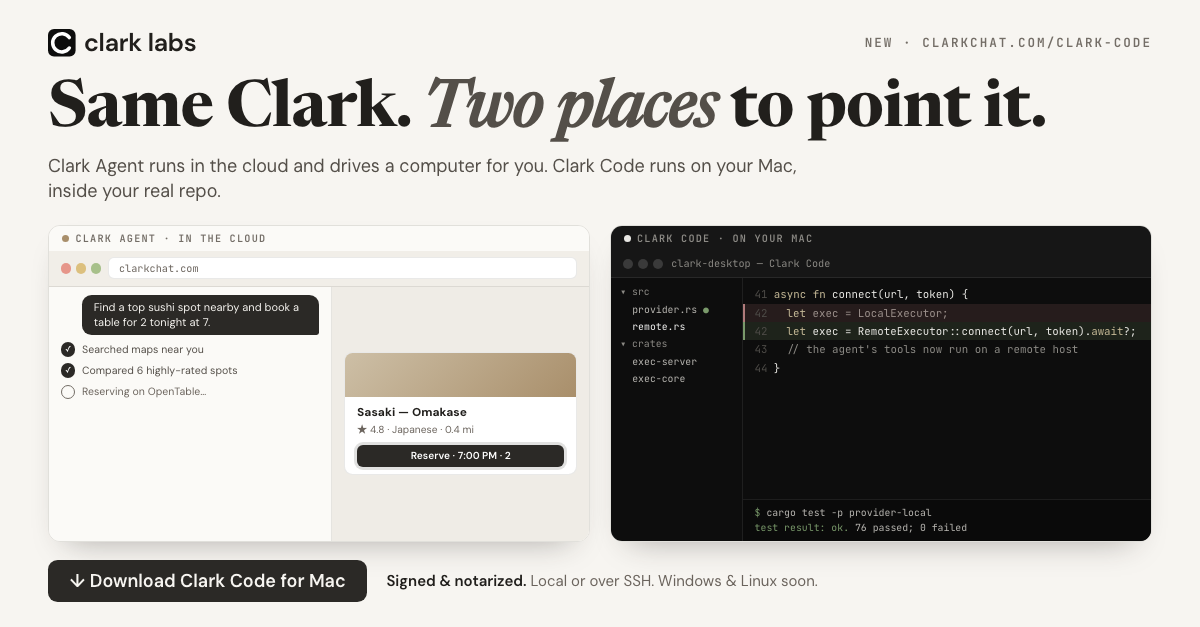
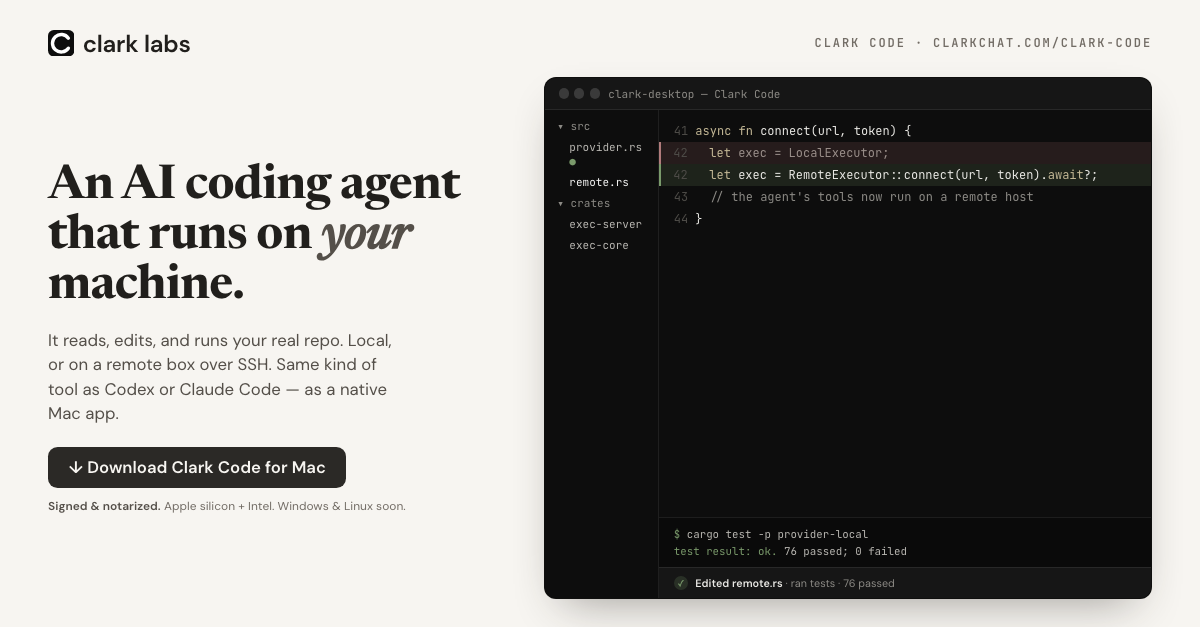
promos: Clark Code-led promo art to match the coding-agent positioning
Replace the Agent-vs-Code split card with a Clark Code-focused one: serif
headline "An AI coding agent that runs on your machine", a large dark IDE frame
(file tree, diff, passing tests), and the Mac download CTA — matching the
/clark-code hero. Re-rendered at 1600x900 (X) and 1200x627 (LinkedIn).

Claude-Session: https://claude.ai/code/session_01JfPrSee9uP3Q7wbd7r2sYU

diff --git a/promos/promo-card.html b/promos/promo-card.html
@@ -13,54 +13,41 @@
   *{box-sizing:border-box;margin:0;padding:0}
   html,body{width:100vw;height:100vh;overflow:hidden}
   body{background:var(--bg);color:var(--ink);font-family:var(--sans);
-       display:flex;flex-direction:column;padding:4.2vh 4vw 4vh;-webkit-font-smoothing:antialiased}
+       display:flex;flex-direction:column;padding:4.4vh 4vw;-webkit-font-smoothing:antialiased}
   .top{display:flex;align-items:center;justify-content:space-between}
-  .brand{display:flex;align-items:center;gap:.7vw;font-weight:600;font-size:2.1vw;letter-spacing:-.01em}
-  .brand svg{width:2.3vw;height:2.3vw}
-  .eyebrow{font-family:var(--mono);font-size:1.05vw;font-weight:600;letter-spacing:.16em;text-transform:uppercase;color:var(--faint)}
-  h1{font-family:var(--disp);font-weight:700;letter-spacing:-.015em;line-height:1.02;font-size:5.4vw;margin-top:3vh;max-width:24ch}
+  .brand{display:flex;align-items:center;gap:.7vw;font-weight:600;font-size:2vw;letter-spacing:-.01em}
+  .brand svg{width:2.2vw;height:2.2vw}
+  .eyebrow{font-family:var(--mono);font-size:1vw;font-weight:600;letter-spacing:.16em;text-transform:uppercase;color:var(--faint)}
+  .row{flex:1;display:flex;gap:3vw;align-items:center;margin-top:3vh;min-height:0}
+  .left{flex:1;display:flex;flex-direction:column;justify-content:center}
+  h1{font-family:var(--disp);font-weight:700;letter-spacing:-.015em;line-height:1.04;font-size:4vw}
   h1 em{font-style:italic;color:var(--ink2)}
-  .sub{margin-top:1.6vh;font-size:1.5vw;color:var(--ink2);max-width:62ch;line-height:1.4}
-  .frames{flex:1;display:flex;gap:1.6vw;margin-top:3.2vh;min-height:0}
-  .frame{flex:1;border:1px solid var(--line);border-radius:1vw;overflow:hidden;display:flex;flex-direction:column;
-         box-shadow:0 2.5vh 5vh -3vh rgba(40,36,32,.4)}
-  .flabel{display:flex;align-items:center;gap:.5vw;padding:1vh 1.1vw;font-family:var(--mono);font-size:.85vw;font-weight:600;letter-spacing:.12em;text-transform:uppercase}
-  .dot{width:.6vw;height:.6vw;border-radius:50%}
-  /* light browser */
-  .browser{background:#fbfaf7;flex:1;display:flex;flex-direction:column}
-  .bbar{display:flex;align-items:center;gap:.6vw;padding:1vh 1vw;background:#f1eee8;border-bottom:1px solid var(--line)}
-  .lights{display:flex;gap:.4vw}.lights i{width:.85vw;height:.85vw;border-radius:50%;display:block}
-  .url{flex:1;background:#fff;border:1px solid var(--line);border-radius:.5vw;padding:.55vh .8vw;color:var(--muted);font-family:var(--mono);font-size:.85vw}
-  .bbody{flex:1;display:grid;grid-template-columns:1.1fr 1fr}
-  .chat{padding:1.4vh 1vw;border-right:1px solid var(--line);display:flex;flex-direction:column;gap:1.1vh}
-  .ub{align-self:flex-end;max-width:92%;background:var(--accent);color:var(--on-accent);border-radius:.8vw .8vw .2vw .8vw;padding:.8vh 1vw;font-size:.92vw;line-height:1.35}
-  .step{display:flex;align-items:center;gap:.55vw;font-size:.88vw;color:var(--ink2)}
-  .ck{width:1.2vw;height:1.2vw;border-radius:50%;background:var(--accent);color:#fff;display:grid;place-items:center;flex:none;font-size:.7vw}
-  .ck.run{background:transparent;border:1.5px solid var(--faint)}
-  .vp{padding:1.3vh 1vw;background:var(--bg2);display:flex;align-items:center}
-  .vpc{width:100%;background:#fff;border:1px solid var(--line);border-radius:.7vw;overflow:hidden}
-  .vph{height:7vh;background:linear-gradient(135deg,#cdbfa6,#a98f6b)}
-  .vpp{padding:1.2vh 1vw}.vpt{font-weight:700;font-size:1vw}.vps{color:var(--muted);font-size:.85vw;margin-top:.3vh}
-  .reserve{margin-top:1.2vh;background:var(--accent);color:#fff;text-align:center;border-radius:.5vw;padding:.7vh;font-weight:600;font-size:.85vw;box-shadow:0 0 0 .25vw rgba(43,41,38,.14)}
-  /* dark IDE */
-  .ide{background:#0d0d0d;color:#e9e8e4;flex:1;display:flex;flex-direction:column}
-  .ibar{display:flex;align-items:center;gap:.7vw;padding:1vh 1vw;background:#161616;border-bottom:1px solid rgba(255,255,255,.08)}
-  .ititle{font-family:var(--mono);font-size:.85vw;color:#8c8a85}
-  .ibody{flex:1;display:grid;grid-template-columns:11vw 1fr}
-  .tree{padding:1.2vh .8vw;border-right:1px solid rgba(255,255,255,.08);display:flex;flex-direction:column;gap:.7vh;font-family:var(--mono);font-size:.82vw;color:#b8b6b1}
+  .sub{margin-top:2.4vh;font-size:1.4vw;color:var(--ink2);line-height:1.45;max-width:30ch}
+  .cta{display:inline-flex;align-items:center;gap:.6vw;background:var(--accent);color:var(--on-accent);font-weight:600;font-size:1.4vw;padding:1.5vh 1.7vw;border-radius:.8vw;margin-top:3.4vh;align-self:flex-start}
+  .note{margin-top:1.6vh;font-size:1vw;color:var(--faint)}
+  .note b{color:var(--ink2);font-weight:600}
+
+  /* big dark IDE */
+  .right{flex:1.32;height:100%;display:flex}
+  .ide{flex:1;background:#0d0d0d;color:#e9e8e4;border-radius:1vw;overflow:hidden;display:flex;flex-direction:column;
+       border:1px solid var(--line);box-shadow:0 3vh 7vh -3vh rgba(40,36,32,.45)}
+  .ibar{display:flex;align-items:center;gap:.7vw;padding:1.3vh 1.1vw;background:#161616;border-bottom:1px solid rgba(255,255,255,.08)}
+  .lights{display:flex;gap:.45vw}.lights i{width:.85vw;height:.85vw;border-radius:50%;display:block}
+  .ititle{font-family:var(--mono);font-size:.92vw;color:#8c8a85}
+  .ibody{flex:1;display:grid;grid-template-columns:9.5vw 1fr;min-height:0}
+  .tree{padding:1.5vh 1vw;border-right:1px solid rgba(255,255,255,.08);display:flex;flex-direction:column;gap:1.1vh;font-family:var(--mono);font-size:.92vw;color:#b8b6b1}
   .tree .f{padding-left:1vw}.tree .on{color:#f5f5f4}.tree .d{color:#8c8a85}.tree .m{color:#7a9a6b}
-  .ed{flex:1;display:flex;flex-direction:column;min-width:0}
-  .code{flex:1;padding:1.2vh 1vw;font-family:var(--mono);font-size:.9vw;line-height:1.7}
-  .ln{color:#4d4b47;display:inline-block;width:1.6vw}
+  .ed{display:flex;flex-direction:column;min-width:0}
+  .code{flex:1;padding:1.6vh 1.2vw;font-family:var(--mono);font-size:1vw;line-height:1.85}
+  .ln{color:#4d4b47;display:inline-block;width:1.8vw}
   .kw{color:#c4b896}.mut{color:#8c8a85}
-  .add{background:rgba(122,154,107,.16);display:block;border-left:.18vw solid #7a9a6b;margin:0 -1vw;padding:0 1vw 0 .82vw}
-  .del{background:rgba(190,120,120,.14);display:block;border-left:.18vw solid #b07b7b;margin:0 -1vw;padding:0 1vw 0 .82vw;color:#9a8f8a}
-  .term{border-top:1px solid rgba(255,255,255,.08);background:#0a0a0a;padding:1vh 1vw;font-family:var(--mono);font-size:.82vw;color:#b8b6b1;display:flex;flex-direction:column;gap:.4vh}
+  .add{background:rgba(122,154,107,.16);display:block;border-left:.2vw solid #7a9a6b;margin:0 -1.2vw;padding:0 1.2vw 0 1vw}
+  .del{background:rgba(190,120,120,.14);display:block;border-left:.2vw solid #b07b7b;margin:0 -1.2vw;padding:0 1.2vw 0 1vw;color:#9a8f8a}
+  .term{border-top:1px solid rgba(255,255,255,.08);background:#0a0a0a;padding:1.4vh 1.2vw;font-family:var(--mono);font-size:.9vw;color:#b8b6b1;display:flex;flex-direction:column;gap:.5vh}
   .grn{color:#7a9a6b}
-  .bottom{display:flex;align-items:center;gap:1.6vw;margin-top:3vh}
-  .cta{display:inline-flex;align-items:center;gap:.6vw;background:var(--accent);color:var(--on-accent);font-weight:600;font-size:1.5vw;padding:1.4vh 1.8vw;border-radius:.8vw}
-  .foot{font-size:1.25vw;color:var(--muted)}
-  .foot b{color:var(--ink);font-weight:600}
+  .chip{display:flex;align-items:center;gap:.6vw;padding:1.3vh 1.2vw;background:#161616;border-top:1px solid rgba(255,255,255,.08);color:#8c8a85;font-size:.9vw}
+  .chip b{color:#e9e8e4;font-weight:600}
+  .chip .c{width:1.2vw;height:1.2vw;border-radius:50%;background:rgba(122,154,107,.2);color:#7a9a6b;display:grid;place-items:center;font-size:.8vw;flex:none}
 </style>
 </head>
 <body>
@@ -69,32 +56,17 @@
       <svg viewBox="0 0 32 32"><rect width="32" height="32" rx="7" fill="#0d0d0d"/><path d="M 24.7 9.9 A 10.6 10.6 0 1 0 24.7 22.1" stroke="#fff" stroke-width="4.1" stroke-linecap="round" fill="none"/></svg>
       clark labs
     </span>
-    <span class="eyebrow">New · clarkchat.com/clark-code</span>
+    <span class="eyebrow">Clark Code · clarkchat.com/clark-code</span>
   </div>
 
-  <h1>Same Clark. <em>Two places</em> to point it.</h1>
-  <p class="sub">Clark Agent runs in the cloud and drives a computer for you. Clark Code runs on your Mac, inside your real repo.</p>
-
-  <div class="frames">
-    <!-- Agent -->
-    <div class="frame">
-      <div class="flabel" style="background:#fbfaf7;color:var(--faint)"><span class="dot" style="background:#a98f6b"></span>Clark Agent · in the cloud</div>
-      <div class="browser">
-        <div class="bbar"><span class="lights"><i style="background:#e6968a"></i><i style="background:#dcc07e"></i><i style="background:#a7c08a"></i></span><span class="url">clarkchat.com</span></div>
-        <div class="bbody">
-          <div class="chat">
-            <div class="ub">Find a top sushi spot nearby and book a table for 2 tonight at 7.</div>
-            <div class="step"><span class="ck">✓</span>Searched maps near you</div>
-            <div class="step"><span class="ck">✓</span>Compared 6 highly-rated spots</div>
-            <div class="step" style="color:var(--muted)"><span class="ck run"></span>Reserving on OpenTable…</div>
-          </div>
-          <div class="vp"><div class="vpc"><div class="vph"></div><div class="vpp"><div class="vpt">Sasaki — Omakase</div><div class="vps">★ 4.8 · Japanese · 0.4 mi</div><div class="reserve">Reserve · 7:00 PM · 2</div></div></div></div>
-        </div>
-      </div>
+  <div class="row">
+    <div class="left">
+      <h1>An AI coding agent that runs on <em>your</em> machine.</h1>
+      <p class="sub">It reads, edits, and runs your real repo. Local, or on a remote box over SSH. Same kind of tool as Codex or Claude Code — as a native Mac app.</p>
+      <span class="cta">↓ Download Clark Code for Mac</span>
+      <p class="note"><b>Signed &amp; notarized.</b> Apple silicon + Intel. Windows &amp; Linux soon.</p>
     </div>
-    <!-- Code -->
-    <div class="frame">
-      <div class="flabel" style="background:#161616;color:#8c8a85"><span class="dot" style="background:#e9e8e4"></span>Clark Code · on your Mac</div>
+    <div class="right">
       <div class="ide">
         <div class="ibar"><span class="lights"><i style="background:#3a3a3a"></i><i style="background:#3a3a3a"></i><i style="background:#3a3a3a"></i></span><span class="ititle">clark-desktop — Clark Code</span></div>
         <div class="ibody">
@@ -114,15 +86,11 @@
               <div><span class="grn">$</span> cargo test -p provider-local</div>
               <div><span class="grn">test result: ok.</span> 76 passed; 0 failed</div>
             </div>
+            <div class="chip"><span class="c">✓</span><span><b>Edited remote.rs</b> · ran tests · 76 passed</span></div>
           </div>
         </div>
       </div>
     </div>
-  </div>
-
-  <div class="bottom">
-    <span class="cta">↓ Download Clark Code for Mac</span>
-    <span class="foot"><b>Signed &amp; notarized.</b> Local or over SSH. Windows &amp; Linux soon.</span>
   </div>
 </body>
 </html>
